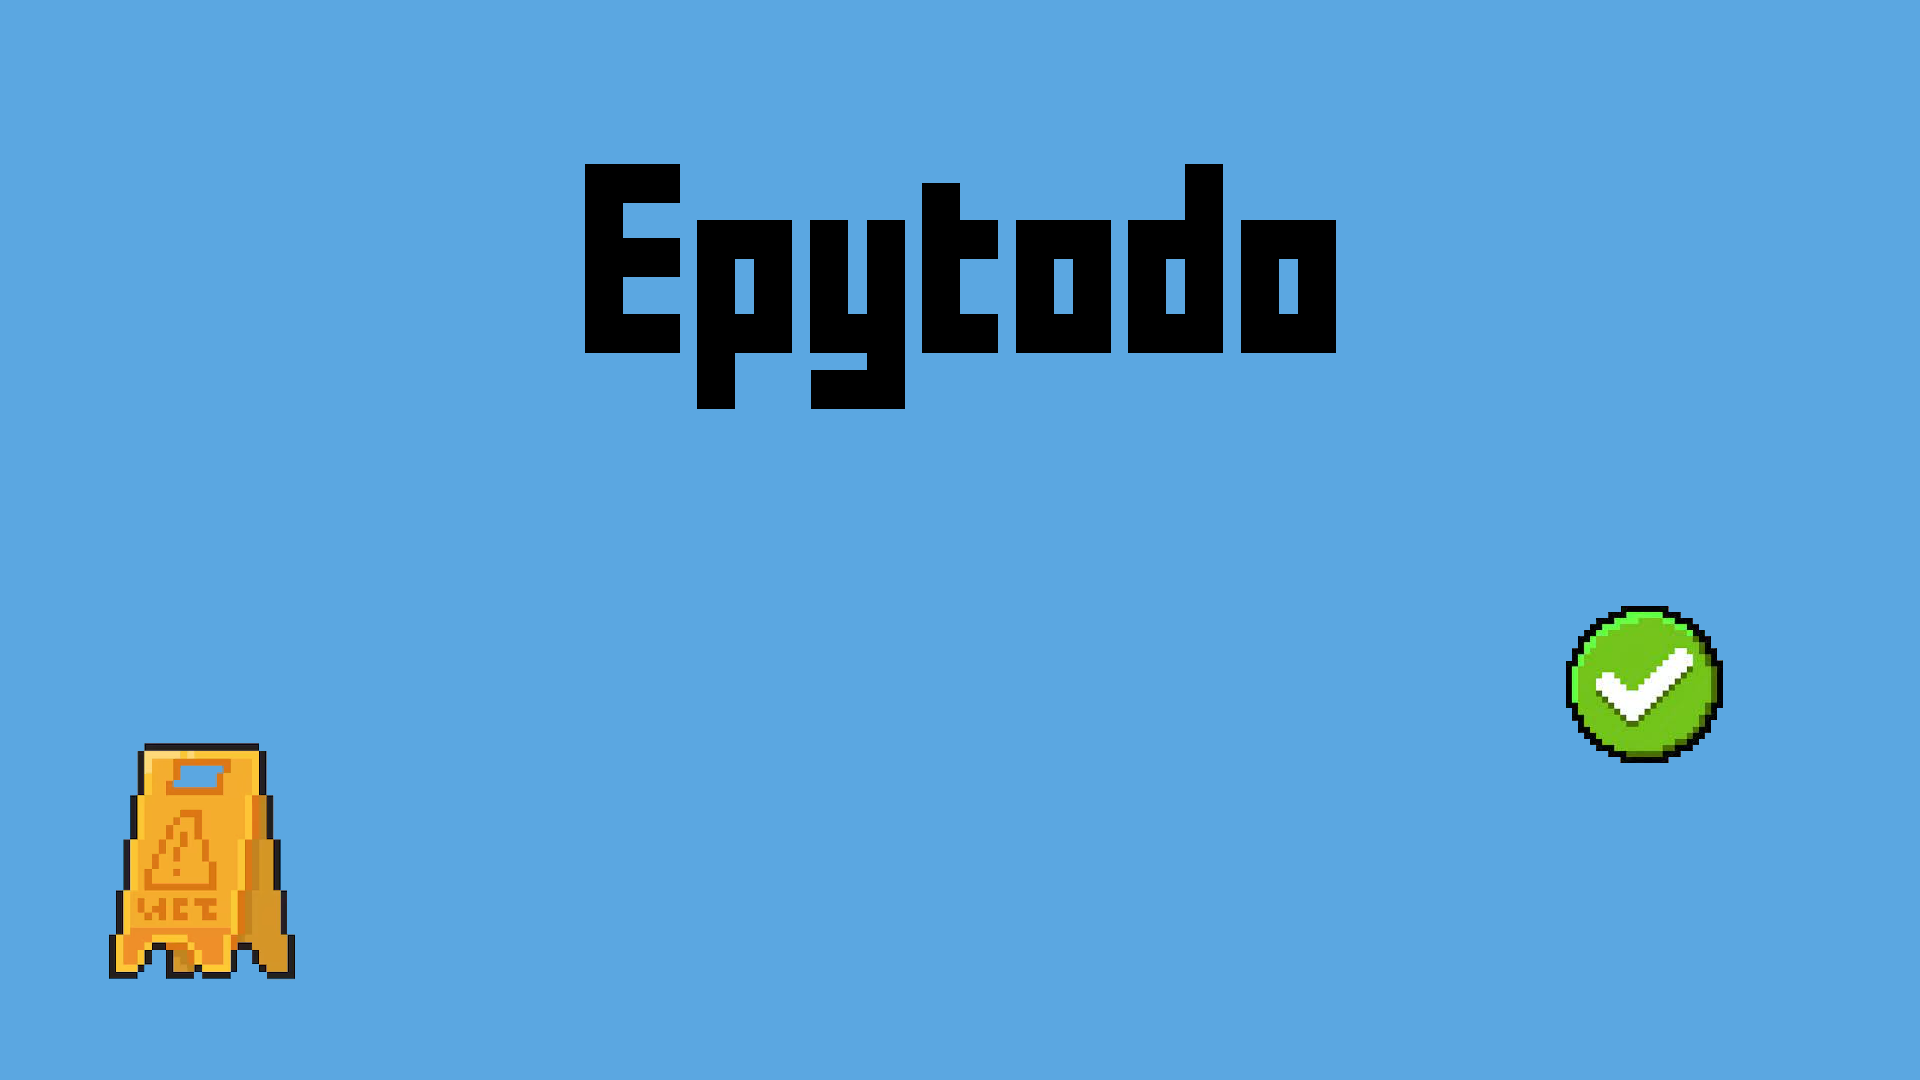
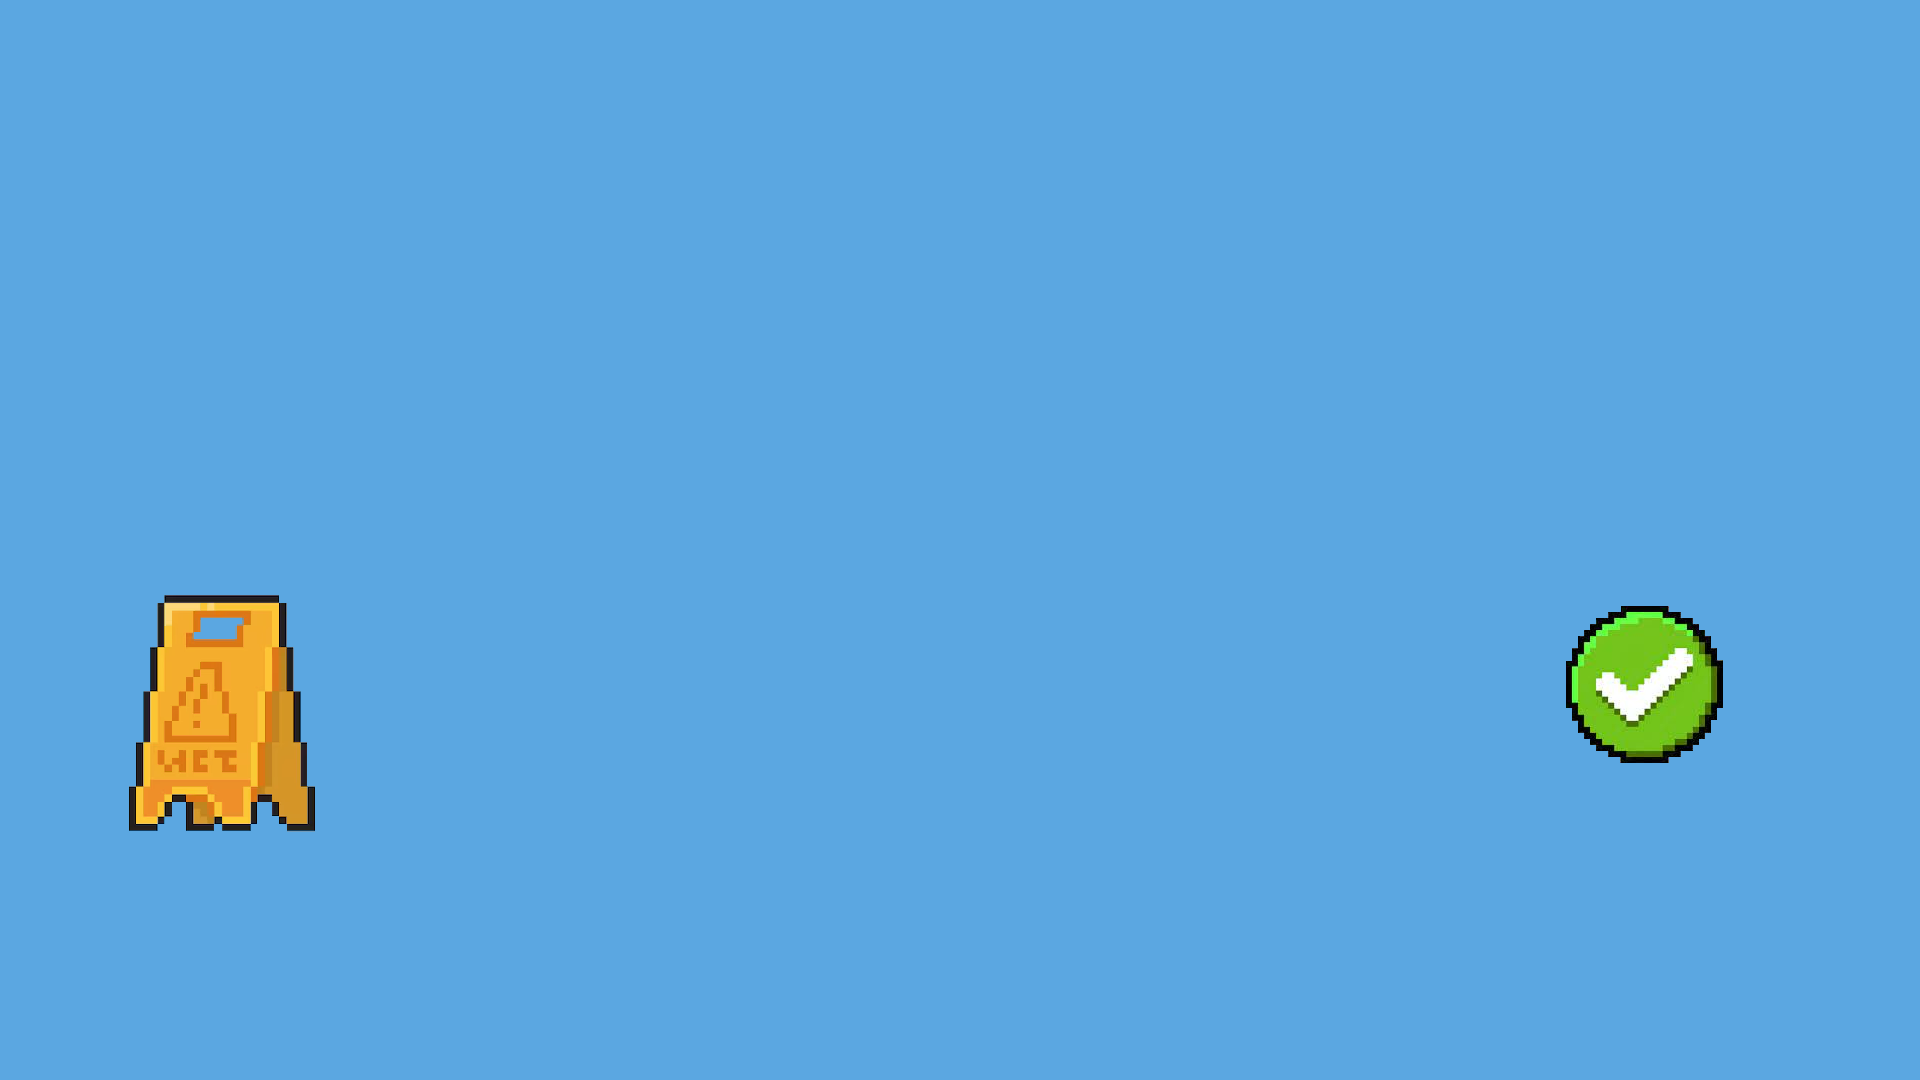
Remove text on background

Changed region(s): [[0.2812, 0.1528, 0.7188, 0.3972], [0.0312, 0.55, 0.1875, 0.9167]]

diff --git a/src/pages/login.js b/src/pages/login.js
@@ -98,6 +98,10 @@ const Login = () => {
 
     return (
         <div className="Register-page-background">
+            <h1 className={"pixelDark"}>Login</h1>
+            <h3> </h3>
+            <h3> </h3>
+            <br/><br/>
             {errorMessage && <p className="error">{errorMessage}</p>}
             <form className={"form"}>
                 <label className={"label"}>Email:
@@ -114,4 +118,5 @@ const Login = () => {
         </div>
     )
 }
+
 export default Login

diff --git a/src/pages/dashboard.js b/src/pages/dashboard.js
@@ -61,7 +61,7 @@ const Dashboard = () => {
             ) :
             <div>
                 <h1 className={"pixelDark"}>Be happy, you have nothing to do</h1>
-                <p className={"pixelDark"}>(or you are not link to the db, in that case, stop being happy)</p>
+                <p className={"pixelDark"}>(or you are not linked to the db, in that case, stop being happy)</p>
             </div>
             }
             { null }

diff --git a/src/pages/homePage.js b/src/pages/homePage.js
@@ -20,6 +20,9 @@ const RegisterButton = () => {
 const HomePage = () => {
     return (
         <div className={"Home-page-background"}>
+            <div className={"App"}>
+                <h1 className={"pixelDark"}>Epytodo</h1>
+            </div>
             <div className={"buttonContainer"}>
                 <RegisterButton />
                 <LoginButton />

diff --git a/src/pages/register.js b/src/pages/register.js
@@ -104,7 +104,7 @@ const Register = () => {
     }
     return (
         <div className="Register-page-background">
-            <h1> </h1>
+            <h1 className={"pixelDark"}>Register</h1>
             <h3> </h3>
             <h3> </h3>
             <br/><br/>
